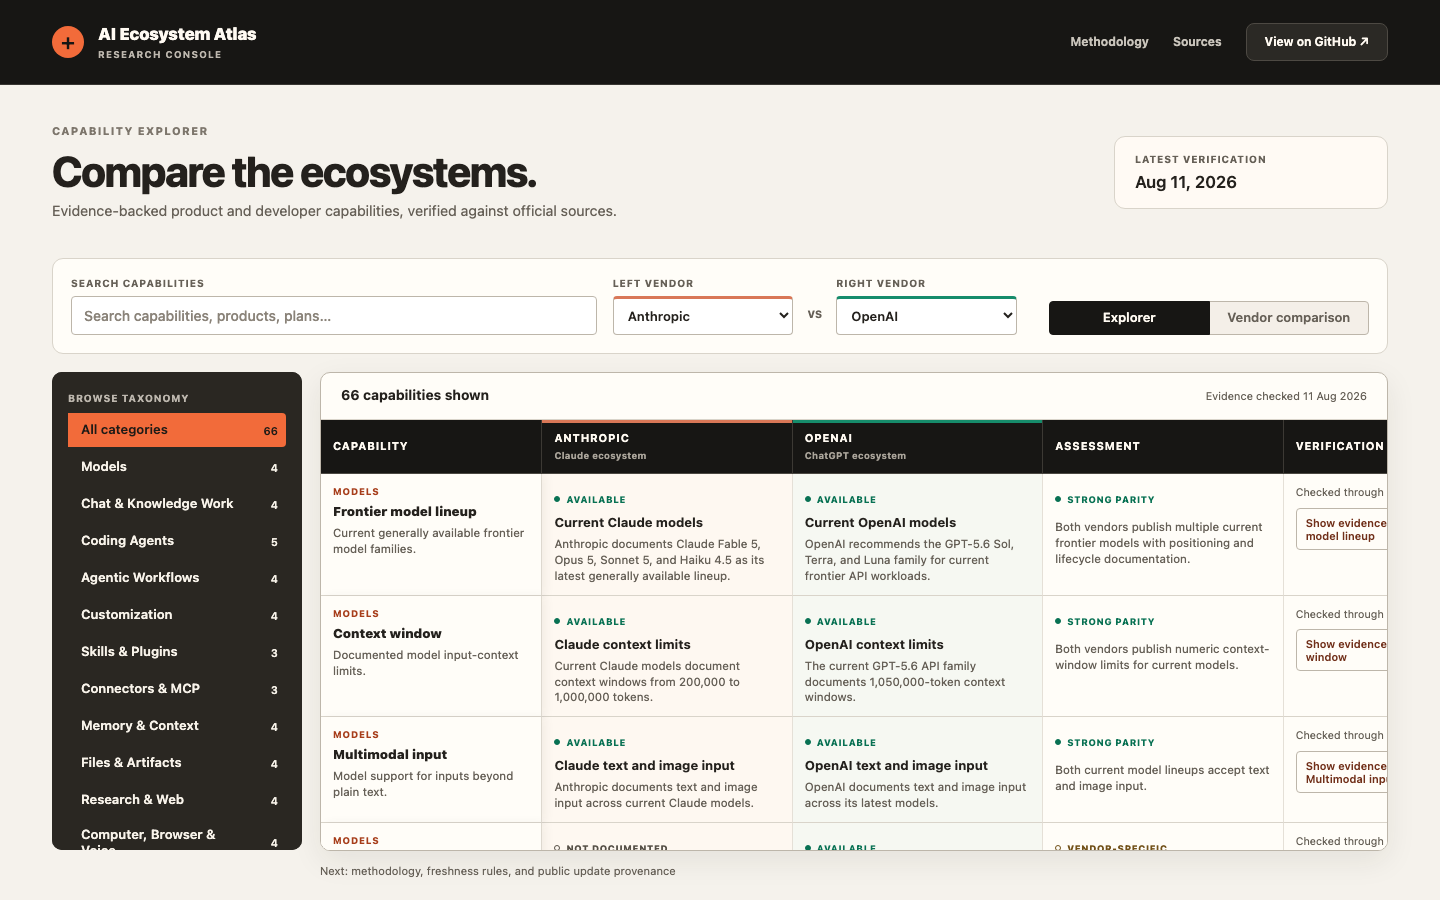
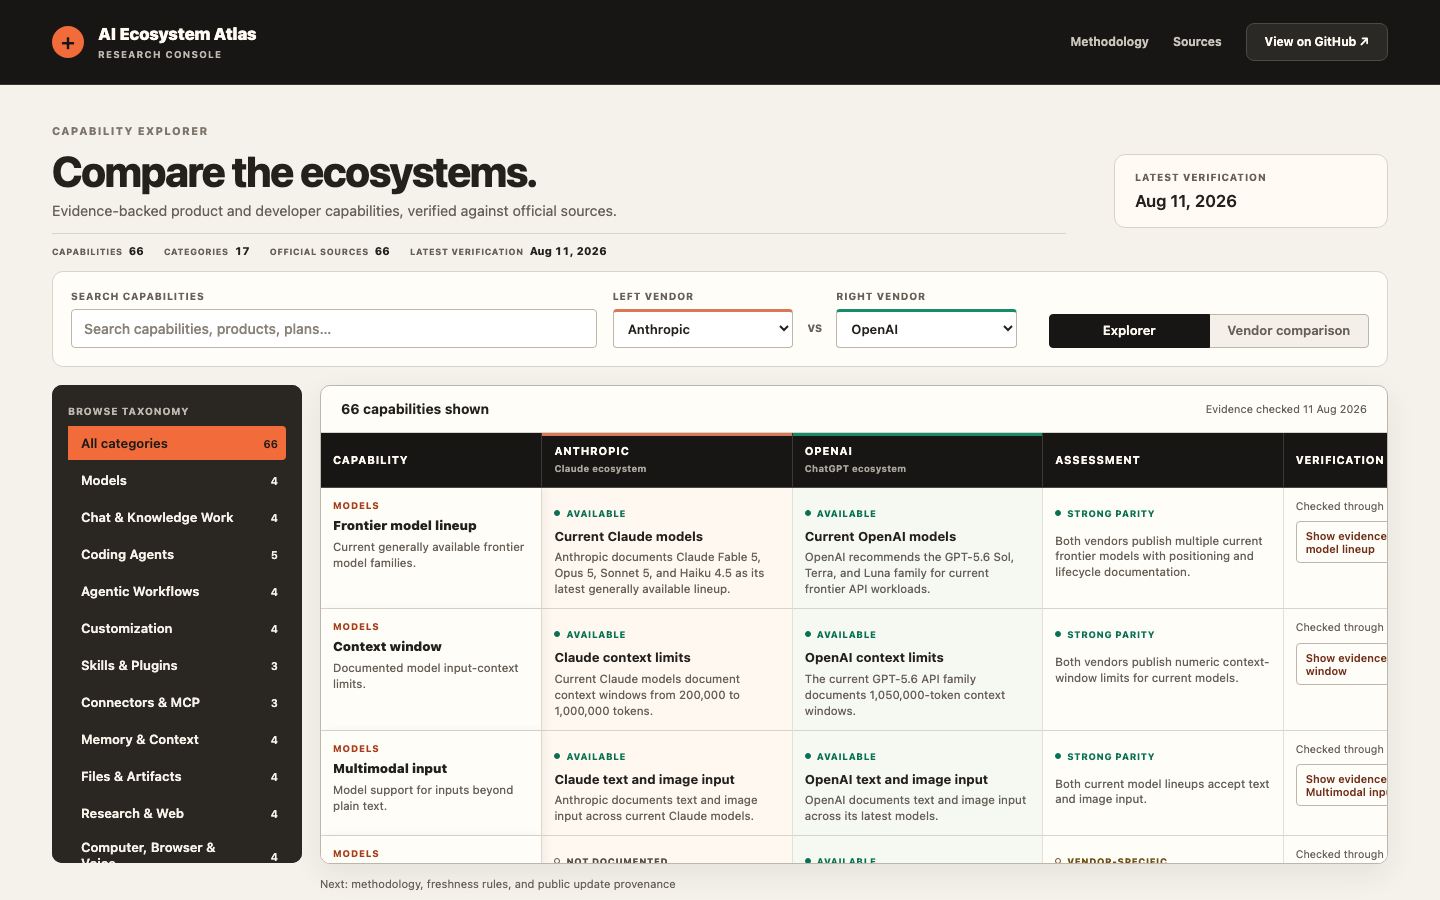
fix: make the release workflow reproducible

diff --git a/e2e/atlas.spec.ts b/e2e/atlas.spec.ts
@@ -24,11 +24,48 @@ for (const viewport of viewports) {
     }));
     expect(pageOverflow.scrollWidth).toBeLessThanOrEqual(pageOverflow.clientWidth);
 
-    const tableOverflow = await page.locator(".table-scroll").evaluate((element) => ({
+    const tableScroller = page.locator(".table-scroll");
+    const tableOverflow = await tableScroller.evaluate((element) => ({
       clientWidth: element.clientWidth,
       scrollWidth: element.scrollWidth,
     }));
-    expect(tableOverflow.scrollWidth).toBeGreaterThanOrEqual(tableOverflow.clientWidth);
+    if (viewport.name === "desktop") {
+      expect(tableOverflow.scrollWidth).toBeGreaterThanOrEqual(
+        tableOverflow.clientWidth,
+      );
+    } else {
+      expect(tableOverflow.scrollWidth).toBeGreaterThan(tableOverflow.clientWidth);
+      const horizontalPosition = await tableScroller.evaluate((element) => {
+        element.scrollLeft = element.scrollWidth - element.clientWidth;
+        return {
+          maxScrollLeft: element.scrollWidth - element.clientWidth,
+          scrollLeft: element.scrollLeft,
+        };
+      });
+      expect(horizontalPosition.scrollLeft).toBe(horizontalPosition.maxScrollLeft);
+
+      const verificationReachability = await page
+        .getByRole("columnheader", { name: /verification & sources/i })
+        .evaluate((header) => {
+          const scroller = header.closest<HTMLElement>(".table-scroll");
+          if (!scroller) return null;
+          const headerRect = header.getBoundingClientRect();
+          const scrollerRect = scroller.getBoundingClientRect();
+          return {
+            headerLeft: headerRect.left,
+            headerRight: headerRect.right,
+            scrollerLeft: scrollerRect.left,
+            scrollerRight: scrollerRect.right,
+          };
+        });
+      expect(verificationReachability).not.toBeNull();
+      expect(verificationReachability!.headerLeft).toBeGreaterThanOrEqual(
+        verificationReachability!.scrollerLeft - 1,
+      );
+      expect(verificationReachability!.headerRight).toBeLessThanOrEqual(
+        verificationReachability!.scrollerRight + 1,
+      );
+    }
 
     await page
       .getByRole("searchbox", { name: /search capabilities/i })
@@ -115,4 +152,51 @@ test("mobile: keeps the compact masthead actions on one line", async ({ page }) 
     (element) => element.getBoundingClientRect().height,
   );
   expect(headerHeight).toBeLessThanOrEqual(60);
+});
+
+test("desktop: reaches evidence through natural Tab order with visible focus", async ({
+  page,
+}) => {
+  await page.setViewportSize({ width: 1440, height: 900 });
+  await page.goto("/");
+
+  const search = page.getByRole("searchbox", { name: /search capabilities/i });
+  await search.fill("lifecycle hooks");
+  await expect(search).toBeFocused();
+
+  let focusedEvidence: {
+    outlineStyle: string;
+    outlineWidth: string;
+    text: string;
+  } | null = null;
+
+  for (let index = 0; index < 45; index += 1) {
+    await page.keyboard.press("Tab");
+    const active = await page.evaluate(() => {
+      const element = document.activeElement;
+      if (!(element instanceof HTMLElement)) return null;
+      const style = getComputedStyle(element);
+      return {
+        outlineStyle: style.outlineStyle,
+        outlineWidth: style.outlineWidth,
+        text: element.innerText.trim(),
+      };
+    });
+    if (active?.text === "Show evidence for Lifecycle hooks") {
+      focusedEvidence = active;
+      break;
+    }
+  }
+
+  expect(focusedEvidence).not.toBeNull();
+  expect(focusedEvidence!.outlineStyle).not.toBe("none");
+  expect(focusedEvidence!.outlineWidth).not.toBe("0px");
+
+  await page.keyboard.press("Enter");
+  await expect(
+    page.getByRole("heading", { level: 2, name: "Anthropic evidence" }),
+  ).toBeVisible();
+  await expect(
+    page.getByRole("link", { name: /official source/i }).first(),
+  ).toHaveAttribute("href", /^https:\/\//);
 });

diff --git a/src/app/globals.css b/src/app/globals.css
@@ -170,7 +170,7 @@ a {
   grid-template-columns: minmax(320px, 1fr) 274px;
   gap: 48px;
   align-items: center;
-  padding-block: 38px 36px;
+  padding-block: 38px 12px;
 }
 
 .atlas-intro__copy h1 {
@@ -198,6 +198,36 @@ a {
   font-weight: 800;
   letter-spacing: 0.12em;
   text-transform: uppercase;
+}
+
+.atlas-coverage {
+  display: flex;
+  flex-wrap: wrap;
+  gap: 7px 20px;
+  margin: 11px 0 0;
+  padding-top: 9px;
+  border-top: 1px solid var(--atlas-border);
+}
+
+.atlas-coverage > div {
+  display: flex;
+  align-items: baseline;
+  gap: 6px;
+}
+
+.atlas-coverage dt {
+  color: var(--atlas-ink-muted);
+  font-size: 0.55rem;
+  font-weight: 750;
+  letter-spacing: 0.06em;
+  text-transform: uppercase;
+}
+
+.atlas-coverage dd {
+  margin: 0;
+  font-size: 0.68rem;
+  font-variant-numeric: tabular-nums;
+  font-weight: 800;
 }
 
 .atlas-summary {
@@ -229,7 +259,6 @@ a {
 
 .atlas-summary dd {
   margin: 7px 0 0;
-  font-family: var(--atlas-content-font);
   font-family: var(--atlas-ui-font);
   font-size: 1.05rem;
   font-weight: 600;
@@ -1289,7 +1318,7 @@ tbody th:first-child {
   }
 
   .atlas-intro {
-    padding-block: 38px 24px;
+    padding-block: 38px 20px;
   }
 
   .atlas-intro__copy h1 {
@@ -1302,6 +1331,16 @@ tbody th:first-child {
 
   .atlas-summary > div:nth-child(3) {
     border-left: 0;
+  }
+
+  .atlas-coverage {
+    display: grid;
+    grid-template-columns: repeat(2, minmax(0, 1fr));
+  }
+
+  .atlas-coverage > div {
+    display: grid;
+    gap: 2px;
   }
 
   .filter-toolbar {

diff --git a/src/components/atlas/atlas-intro.tsx b/src/components/atlas/atlas-intro.tsx
@@ -20,6 +20,8 @@ function displayDate(value: string): string {
 }
 
 export function AtlasIntro({ dataset }: { dataset: AtlasDataset }) {
+  const latestVerification = mostRecentDate(dataset);
+
   return (
     <section className="atlas-intro" id="methodology" aria-labelledby="atlas-title">
       <div className="atlas-intro__copy">
@@ -29,11 +31,29 @@ export function AtlasIntro({ dataset }: { dataset: AtlasDataset }) {
           Evidence-backed product and developer capabilities, verified against
           official sources.
         </p>
+        <dl className="atlas-coverage" aria-label="Atlas coverage statistics">
+          <div>
+            <dt>Capabilities</dt>
+            <dd>{dataset.capabilities.length}</dd>
+          </div>
+          <div>
+            <dt>Categories</dt>
+            <dd>{dataset.categories.length}</dd>
+          </div>
+          <div>
+            <dt>Official sources</dt>
+            <dd>{dataset.sources.length}</dd>
+          </div>
+          <div>
+            <dt>Latest verification</dt>
+            <dd>{displayDate(latestVerification)}</dd>
+          </div>
+        </dl>
       </div>
       <dl className="atlas-summary" aria-label="Atlas coverage summary">
         <div>
           <dt>Latest verification</dt>
-          <dd>{displayDate(mostRecentDate(dataset))}</dd>
+          <dd>{displayDate(latestVerification)}</dd>
         </div>
       </dl>
     </section>

diff --git a/tests/app/page.test.tsx b/tests/app/page.test.tsx
@@ -1,4 +1,4 @@
-import { render, screen } from "@testing-library/react";
+import { render, screen, within } from "@testing-library/react";
 import { vi } from "vitest";
 import Page from "@/app/page";
 
@@ -14,4 +14,18 @@ it("identifies the public application", async () => {
   expect(
     screen.getByRole("heading", { name: "Compare the ecosystems." }),
   ).toBeInTheDocument();
+
+  const coverage = screen.getByLabelText("Atlas coverage statistics");
+  expect(within(coverage).getByText("Capabilities").parentElement).toHaveTextContent(
+    "Capabilities66",
+  );
+  expect(within(coverage).getByText("Categories").parentElement).toHaveTextContent(
+    "Categories17",
+  );
+  expect(
+    within(coverage).getByText("Official sources").parentElement,
+  ).toHaveTextContent("Official sources66");
+  expect(
+    within(coverage).getByText("Latest verification").parentElement,
+  ).toHaveTextContent("Latest verificationAug 11, 2026");
 });

diff --git a/next.config.ts b/next.config.ts
@@ -1,5 +1,7 @@
 import type { NextConfig } from "next";
 
-const nextConfig: NextConfig = {};
+const nextConfig: NextConfig = {
+  agentRules: false,
+};
 
 export default nextConfig;

diff --git a/README.md b/README.md
@@ -116,6 +116,12 @@ Install the locked dependencies:
 npm ci
 ```
 
+Install the Playwright Chromium browser once on a new machine:
+
+```bash
+npx playwright install chromium
+```
+
 Start the local development server, then open `http://localhost:3000`:
 
 ```bash
@@ -129,14 +135,18 @@ npm run validate:data
 npm run lint
 npm run typecheck
 npm test
+npm run test:e2e
 npm run build
 ```
 
-Or run the same validation, lint, type, unit/component, and production-build sequence with one command:
+Run the validation, lint, type, unit/component, and production-build sequence with one command:
 
 ```bash
 npm run check
 ```
+
+`npm run check` intentionally excludes browser tests. Run `npm run test:e2e`
+separately when verifying rendered workflows or preparing a release.
 
 ## Updating the atlas
 
@@ -147,7 +157,8 @@ Every change follows the same public, reviewable workflow:
 3. Update or add the source record before referencing it.
 4. Update the canonical fact and set `verifiedAt` to the official-source check date.
 5. Add or update tests when schema or selector behavior changes.
-6. Run validation, tests, type checking, linting, and the production build.
+6. Run validation, tests (including `npm run test:e2e`), type checking, linting,
+   and the production build.
 7. Inspect the affected comparison and source expansion in the browser.
 8. Commit the data and evidence change and submit it for public review.
 
@@ -190,6 +201,8 @@ Important limitations:
 ```text
 .
 ├── docs/superpowers/          # Approved product specification and implementation plan
+├── e2e/
+│   └── atlas.spec.ts          # Chromium workflow, responsive, focus, and overflow coverage
 ├── scripts/
 │   └── validate-data.ts       # Deterministic dataset validation entry point
 ├── src/
